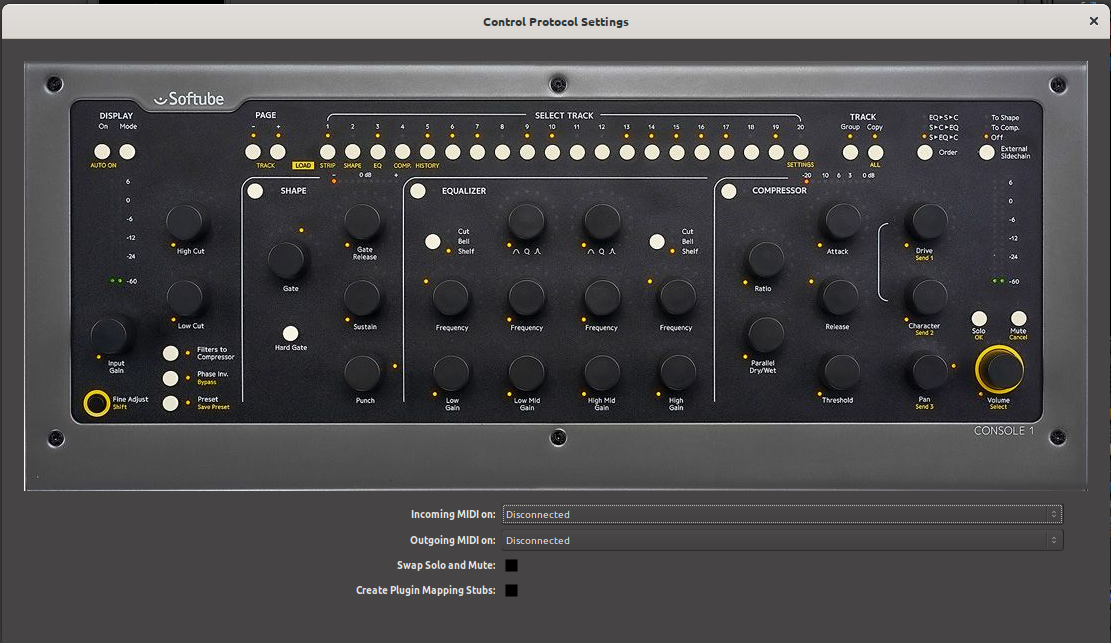
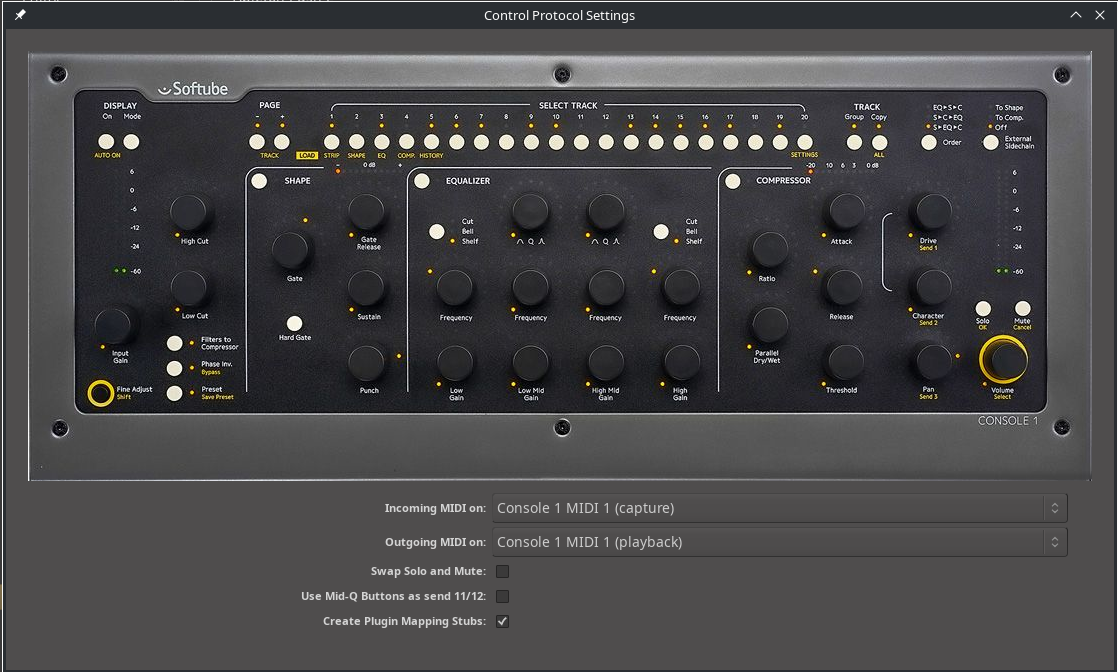
Additions for Q-Conreol

diff --git a/include/control-surfaces-softube-console1.html b/include/control-surfaces-softube-console1.html
@@ -27,7 +27,8 @@
   then click on "Control Surfaces". Click on the "Enable" button
   in the line that says "Console1" in order to activate Ardour's
   Console1 support. Then double click on the line that says
-  "Console1". A new dialog will open, containing two dropdown selectors 
+  "Console1". or hit the "Show Protocol Settings" button. 
+  A new dialog will open, containing two dropdown selectors 
   that will allow you to identify the MIDI ports where your Console1 
   is connected.
 </p>
@@ -49,16 +50,19 @@
 <h3>Checkboxes</h3>
 <p>The checkbox "Swap Solo and Mute" does exactly that. In Ardour and Mixbus, these buttons are arranged exactly the other way round than in Console1. Since this can be irritating, the assignment can be reversed here.
 <p>
+<p>[Mixbus] The checkbox "Use Mid-Q Buttons as send 11/12" hardcodes the Low Mid and High Mid Q-Factor to the send 11 and 12 dials. If not checked, when switching to the SSL Equalizer, the Q-Values of this are controled by this dials. 
+    <em>Default is checked for compatibility with former versions</em>
+<p>
 <p><em>Work in Progress</em><br/>
 The checkbox "Create Plugin Mapping Stubs" automatically creates mapping files for external plugins - if they does not already exists. See the last section "External Plugins" for further information.
 <p>
-<h2>Harrison Mixbus &amp; Mixbus 32c</h2>
+<h2>Harrison Mixbus</h2>
 <p class="well">
-  A lot of functionality is developed to be used with Harrison Mixbus 
-  and Harrison Mixbus32c, therefore the  assignment of the controls might 
+  A lot of functionality is developed to be used with Harrison Mixbus, 
+  therefore the  assignment of the controls might 
   sometimes  feels a little arbitrary. However, in the future it might 
   be possible, to control plugins with this surface.<br/>
-  <strong>Controls only used by Harrison Mixbus (32c) are marked with
+  <strong>Controls only used by Harrison Mixbus are marked with
   [Mixbus]</strong><br/>
   <strong>Controls inside a Mixbus only section which are working in 
   Ardour as well marked with [Ardour]</strong><br/>
@@ -79,7 +83,7 @@ The checkbox "Create Plugin Mapping Stubs" automatically creates mapping files f
   <tr> 
     <th><kbd class="button">On</kbd></th>
     <td>Is lit when a mixer strip is in solo mode and 
-    can disables all solo modes.<em>Rude Solo</em></td>
+    can disables all solo modes.<em>Rude Solo / Clear Solos</em></td>
   </tr>
   <tr>
     <th><kbd class="button">Mode</kbd></th>
@@ -87,7 +91,7 @@ The checkbox "Create Plugin Mapping Stubs" automatically creates mapping files f
   </tr>
   <tr>
     <th><kbd class="button">Page Up</kbd> / <kbd class="button">Page Down</kbd></th>
-    <td>Switches 20 mixer strips up or down. Only lit if there is another page/bank<td>
+    <td>Switches 20 mixer strips up or down. Only lit if there is another page/bank. The lights above this buttons show if you can an upper or lower bank<td>
   </tr>
   <tr>
     <th><kbd class="button">1</kbd>...<kbd class="button">20</kbd></th>
@@ -95,7 +99,7 @@ The checkbox "Create Plugin Mapping Stubs" automatically creates mapping files f
   </tr>
   <tr>
     <th><kbd class="button">Track Group</kbd>/<kbd class="button">Track Copy</kbd></th>
-    <td>Unused</td>
+    <td>Currently Unused</td>
   </tr>
   <tr>
     <th><kbd class="button">Order</kbd></th>
@@ -111,7 +115,7 @@ The checkbox "Create Plugin Mapping Stubs" automatically creates mapping files f
   </tr>
   <tr>
     <th><kbd class="fader">Input Meter</kbd></th>
-    <td>Unused</td>
+    <td>Currently Unused</td>
   </tr>
   <tr>
     <th><kbd class="knob">High Cut</kbd></th>
@@ -131,7 +135,7 @@ The checkbox "Create Plugin Mapping Stubs" automatically creates mapping files f
   </tr>
   <tr>
     <th><kbd class="button">Preset</kbd></th>
-    <td>The Global 'Shift' button</td>
+    <td>The global 'Shift' button</td>
   </tr>
   <tr>
     <th><kbd class="knob">Pan</kbd></th>
@@ -159,11 +163,11 @@ The checkbox "Create Plugin Mapping Stubs" automatically creates mapping files f
 <table class="dl">
   <tr> 
     <th><kbd class="button">Shape</kbd></th>
-    <td>Switches the Gate section on or off</td>
+    <td>Switches the "Gate" on or off</td>
   </tr>
   <tr>
     <th><kbd class="fader">Shape Meter</kbd></th>
-    <td>Shows the Gain reduction of the gate<td>
+    <td>Shows the gain reduction of the gate<td>
   </tr>  
   <tr>
     <th><kbd class="knob">Gate</kbd></th>
@@ -212,11 +216,11 @@ The checkbox "Create Plugin Mapping Stubs" automatically creates mapping files f
 <table class="dl">
   <tr> 
     <th><kbd class="button">Equalizer</kbd></th>
-    <td>Switches the Equalizer section on or off</td>
+    <td>Switches the "Equalizer" on or off</td>
   </tr>
   <tr>
     <th><kbd class="knob">Low Gain</kbd></th>
-    <td>The Gain (reduction or boost) of the semiparametric bass eq<td>
+    <td>The gain (reduction or boost) of the semiparametric bass eq<td>
   </tr>  
   <tr>
     <th><kbd class="knob">(Low) Frequency</kbd></th>
@@ -224,11 +228,11 @@ The checkbox "Create Plugin Mapping Stubs" automatically creates mapping files f
   </tr>  
   <tr> 
     <th><kbd class="button">(Low) Cut / Bell / Shelf</kbd></th>
-    <td>Switches between Cut/Boost or Shelf (this uses only two of the three states</td>
+    <td>Switches between cut/boost or shelf (this uses only two of the three states</td>
   </tr>
   <tr>
     <th><kbd class="knob">Low Mid Gain</kbd></th>
-    <td>The Gain (reduction or boost) of the semiparametric low mid eq</td>
+    <td>The gain (reduction or boost) of the semiparametric low mid eq</td>
   </tr>  
   <tr>
     <th><kbd class="knob">(Low Mid) Frequency</kbd></th>
@@ -236,12 +240,16 @@ The checkbox "Create Plugin Mapping Stubs" automatically creates mapping files f
   </tr>
   <tr>
     <th><kbd class="knob">(Low Mid) Shape</kbd></th>
-    <td>[Ardour]The eleventh send of a mixer strip / Send to the eleventh mixbus</td>
+    <td>If the checkbox <em>Use Mid-Q Buttons as send 11/12</em> in the <em>settings dialog</em> is checked or the Harrison EQ is selected, the dial controls send 11. 
+        If the <em>Use Mid-Q Buttons as send 11/12</em> is not checked and the SSL EQ is selected, this dial controls the Q-factor of the low mids. 
+        [Ardour] The eleventh send of a mixer strip 
+        (see section Mixbusses) 
+    </td>
   </tr>  
 
   <tr>
     <th><kbd class="knob">High Mid Gain</kbd></th>
-    <td>The Gain (reduction or boost) of the semiparametric high mid eq</td>
+    <td>The gain (reduction or boost) of the semiparametric high mid eq</td>
   </tr>  
   <tr>
     <th><kbd class="knob">(High Mid) Frequency</kbd></th>
@@ -249,13 +257,16 @@ The checkbox "Create Plugin Mapping Stubs" automatically creates mapping files f
   </tr>
   <tr>
     <th><kbd class="knob">(High Mid) Shape</kbd></th>
-    <td>[Ardour]The twelfth send of a mixer strip / Send to the twelfth mixbus
-    (see section Mixbusses) </td>
+    <td>If the checkbox <em>Use Mid-Q Buttons as send 11/12</em> in the <em>settings dialog</em> is checked or the Harrison EQ is selected, the dial controls send 12. 
+        If the <em>Use Mid-Q Buttons as send 11/12</em> is not checked and the SSL EQ is selected, this dial controls the Q-factor of the high mids. 
+        [Ardour] The twelfth send of a mixer strip
+        (see section Mixbusses) 
+    </td>
   </tr>  
 
   <tr>
     <th><kbd class="knob">High Gain</kbd></th>
-    <td>The Gain (reduction or boost) of the semiparametric treble eq</td>
+    <td>The gain (reduction or boost) of the semiparametric treble eq</td>
   </tr>  
   <tr>
     <th><kbd class="knob">(High) Frequency</kbd></th>
@@ -268,7 +279,7 @@ The checkbox "Create Plugin Mapping Stubs" automatically creates mapping files f
 <table class="dl">
   <tr> 
     <th><kbd class="button">Compressor</kbd></th>
-    <td>Switches the Compressor on or off</td>
+    <td>Switches the "Compressor" on or off</td>
   </tr>
   <tr>
     <th><kbd class="fader">Compressor Meter</kbd></th>
@@ -303,7 +314,7 @@ The checkbox "Create Plugin Mapping Stubs" automatically creates mapping files f
 <h4>Sends</h4>
 <div class="well">
 All Encoders in the equalizer-section are working as sends when 'shift' is selected.<br/>
-Additionally the Low-Mid and High-Mid shape encoders are sends to the mixbusses 
+Additionally the "Low-Mid" and "High-Mid" shape encoders <em>can</em> act as sends to the mixbusses (see below)
 eleven and twelfe. The Idea behind this is to have some common effects on this two 
 mixbusses which are accessible without 'shift'. Currently, this is focused on Mixbus. <br/>
 The functionality will be extended to fit better with Ardour in a second development phase.
@@ -356,11 +367,11 @@ the next send below by the send 2 encoder
   </tr>  
   <tr>
     <th><kbd class="knob">(Low Mid) Shape</kbd></th>
-    <td>Send 11</td>
+    <td>If the <em>Use Mid-Q Buttons as send 11/12</em> is checked or the Harrison EQ is selected, this dial controls the Send 11</td>
   </tr>  
   <tr>
     <th><kbd class="knob">(High Mid) Shape</kbd></th>
-    <td>Send 12</td>
+    <td>If the <em>Use Mid-Q Buttons as send 11/12</em> is checked or the Harrison EQ is selected, this dial controls the Send 12</td>
   </tr>  
   
 </table>  
